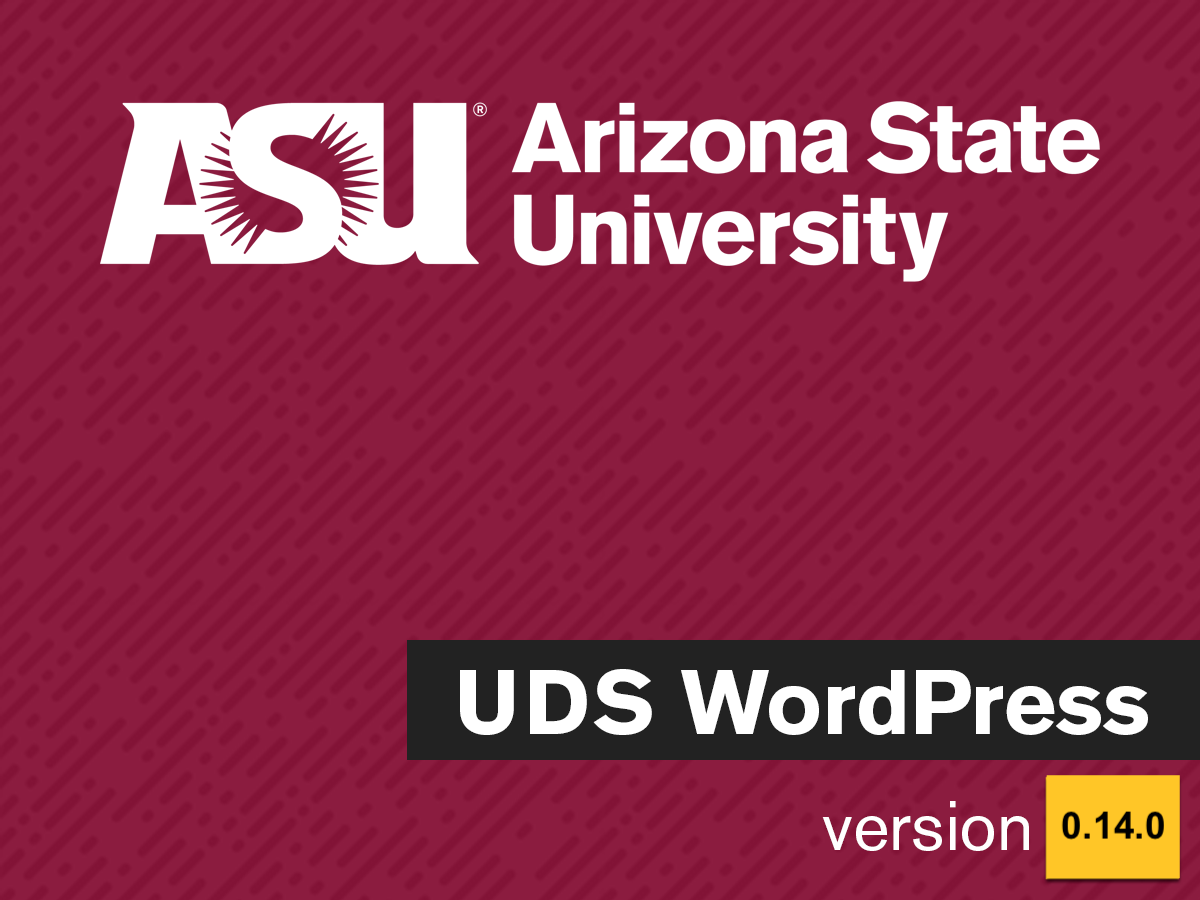
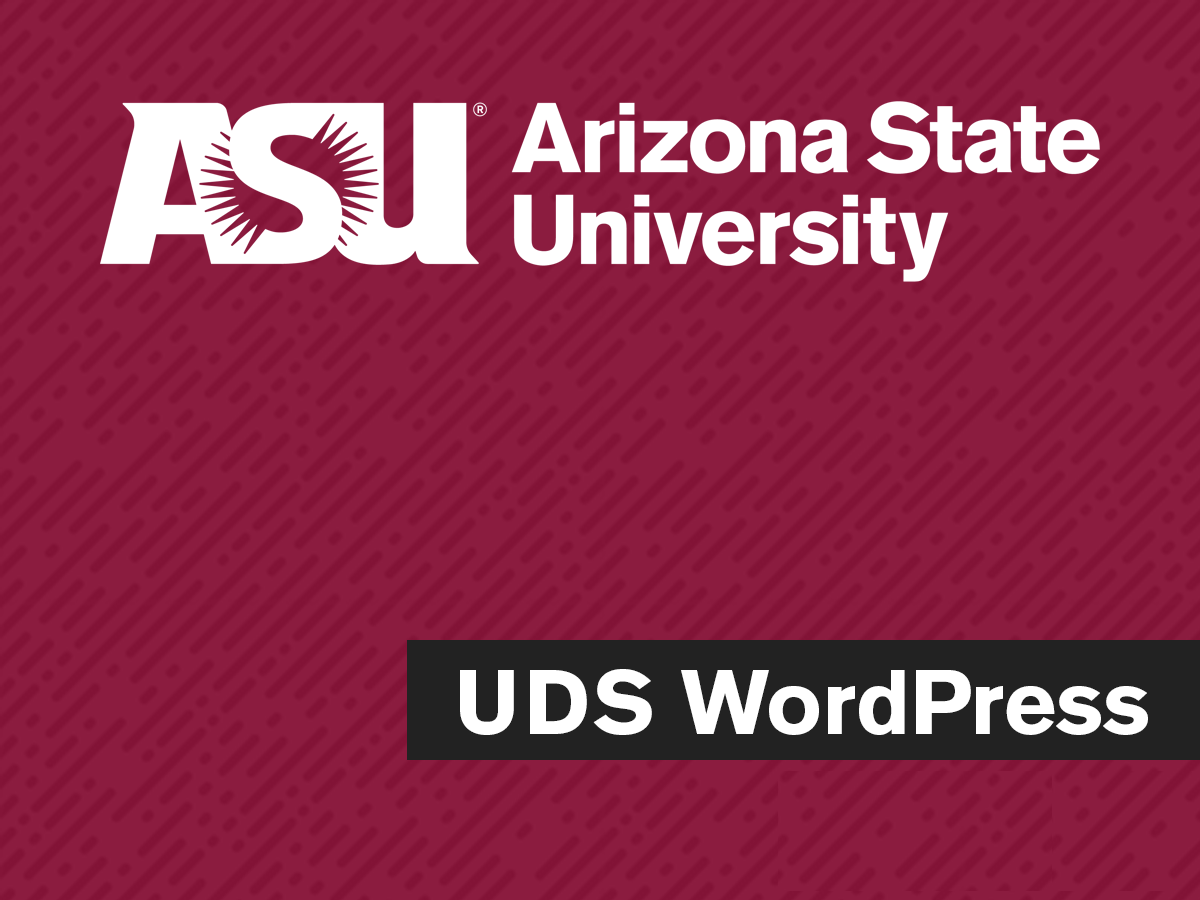
Version bump 0.15.0

Changed region(s): [[0.6783, 0.84, 0.9867, 0.9956]]

diff --git a/style.css b/style.css
@@ -4,7 +4,7 @@ Theme URI: https://github.com/asu-ke-web-services/UDS-WordPress-Theme
 Author: Arizona State University Knowledge Enterprise
 Author URI: https://research.asu.edu
 Description: Combination of Automattic´s _s theme and Bootstrap 4, customized and enhanced for ASU Web Standards 2.0
-Version: 0.14.0
+Version: 0.15.0
 
 GitHub Theme URI: https://github.com/asu-ke-web-services/UDS-WordPress-Theme
 
